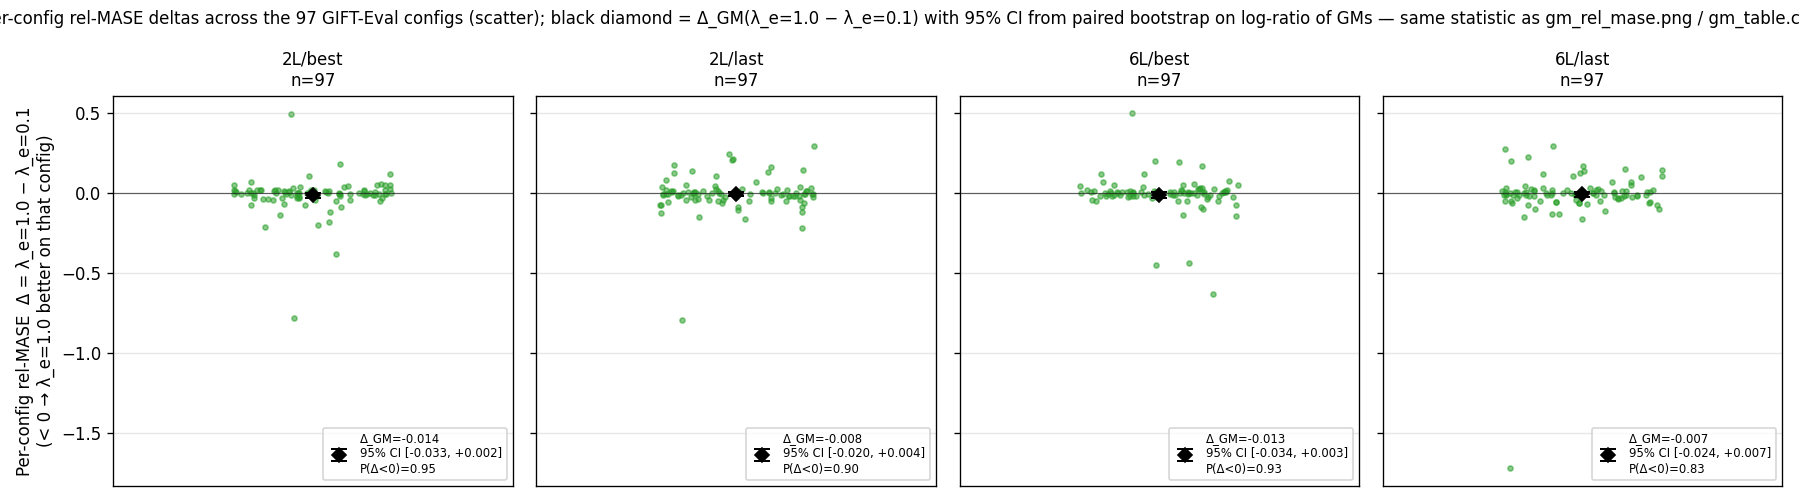
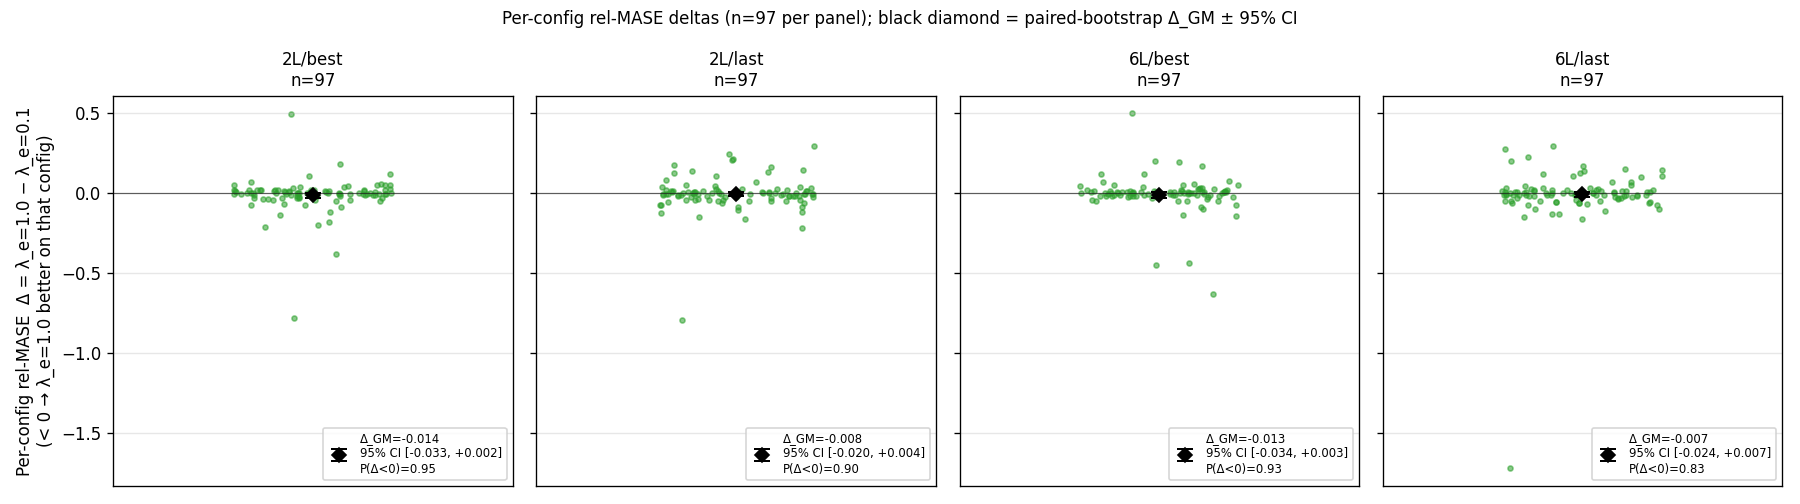
exp(#359): address PR #361 iter-3 review — drop orphan plots, trim clipped suptitle
P1: delete plots/loss_curve.png and plots/uniformity.png (orphans — no ![] reference
in the markdown). Remove plot_loss_curves / plot_uniformity from build_report.py and
drop the now-unused --ema-csv / --cpc-csv args. h_t info already lives in
sigreg_e_inspection.png; loss is operational context.

P2: trim per_config_delta.png suptitle to one short line ("Per-config rel-MASE deltas
(n=97 per panel); black diamond = paired-bootstrap Δ_GM ± 95% CI") — full statistic
definition is already in the markdown caption. The previous one-liner overflowed the
15-inch figsize at fontsize=10 and was clipped at both ends.

Changed region(s): [[0.0, 0.0, 1.0, 0.0595]]

diff --git a/reports/2026-06-22_lejepa_sigreg_emb10/scripts/build_report.py b/reports/2026-06-22_lejepa_sigreg_emb10/scripts/build_report.py
@@ -210,24 +210,6 @@ def write_gm_table(
     return rows
 
 
-def plot_loss_curves(
-    sig10_csv: Path, sig01_csv: Path | None, ema_csv: Path | None, cpc_csv: Path | None, out: Path,
-):
-    fig, ax = plt.subplots(figsize=(8, 4.5))
-    s = pd.read_csv(sig10_csv)
-    ax.plot(s["step"], s["loss"].rolling(50, min_periods=1).mean(),
-            label=ARM_LABEL["sigreg10_enc3"], color=ARM_COLOR["sigreg10_enc3"], lw=1.6)
-    for arm, csv_path in (("sigreg01_enc3", sig01_csv), ("ema_enc3", ema_csv), ("cpc_enc3", cpc_csv)):
-        if csv_path and csv_path.exists():
-            d = pd.read_csv(csv_path)
-            ax.plot(d["step"], d["loss"].rolling(50, min_periods=1).mean(),
-                    label=ARM_LABEL[arm], color=ARM_COLOR[arm], lw=1.2)
-    ax.set_xlabel("step"); ax.set_ylabel("loss (50-step rolling mean)")
-    ax.set_title("Training loss")
-    ax.legend(fontsize=8); ax.grid(alpha=0.3)
-    fig.tight_layout(); fig.savefig(out, dpi=120); plt.close(fig)
-
-
 def plot_sigreg_inspection(sig10_csv: Path, sig01_csv: Path | None, out: Path):
     """Compare sigreg_e / sigreg_h / u_batch_e / u_temporal_e between the two
     λ_e weights. All four panels use log y-axis so the bottom row's tiny values
@@ -256,39 +238,6 @@ def plot_sigreg_inspection(sig10_csv: Path, sig01_csv: Path | None, out: Path):
         ax.set_xlabel("step"); ax.set_title(title)
         ax.legend(fontsize=8); ax.grid(alpha=0.3, which="both")
     fig.suptitle("Embedding-side SIGReg trajectory: λ_e=1.0 vs λ_e=0.1 — log y-axis on all panels")
-    fig.tight_layout(); fig.savefig(out, dpi=120); plt.close(fig)
-
-
-def plot_uniformity(
-    sig10_csv: Path, sig01_csv: Path | None, ema_csv: Path | None, cpc_csv: Path | None, out: Path,
-):
-    """h_t uniformity only — e_t curves are crushed at the [0, 1] baseline and
-    are already shown clearly on the log y-axis of sigreg_e_inspection.png."""
-    s10 = pd.read_csv(sig10_csv)
-    fig, axes = plt.subplots(1, 2, figsize=(13, 4.5), sharey=True)
-    for ax, kind in zip(axes, ("batch", "temporal")):
-        ax.plot(s10["step"], s10[f"u_{kind}"].rolling(50, min_periods=1).mean(),
-                label=f"u_{kind} (h_t) — {ARM_LABEL['sigreg10_enc3']}",
-                color=ARM_COLOR["sigreg10_enc3"], lw=1.6)
-        if sig01_csv and sig01_csv.exists():
-            s01 = pd.read_csv(sig01_csv)
-            ax.plot(s01["step"], s01[f"u_{kind}"].rolling(50, min_periods=1).mean(),
-                    label=f"u_{kind} (h_t) — {ARM_LABEL['sigreg01_enc3']}",
-                    color=ARM_COLOR["sigreg01_enc3"], lw=1.2)
-        for arm, csv_path in (("ema_enc3", ema_csv), ("cpc_enc3", cpc_csv)):
-            if csv_path and csv_path.exists():
-                d = pd.read_csv(csv_path)
-                if f"u_{kind}" in d.columns:
-                    ax.plot(d["step"], d[f"u_{kind}"].rolling(50, min_periods=1).mean(),
-                            label=f"u_{kind} (h_t) — {ARM_LABEL[arm]}",
-                            color=ARM_COLOR[arm], lw=0.9)
-        ax.set_xlabel("step")
-        ax.set_ylabel("effective dimensionality (h_t)")
-        ax.set_title(f"u_{kind} ({'cross-batch' if kind=='batch' else 'cross-time'})")
-        ax.set_ylim(0, 1)
-        ax.legend(fontsize=7); ax.grid(alpha=0.3)
-    fig.suptitle("Encoder-output uniformity h_t (cos²-based dim_usage; clipped to [1/K, 1]). "
-                 "e_t curves are on sigreg_e_inspection.png.")
     fig.tight_layout(); fig.savefig(out, dpi=120); plt.close(fig)
 
 
@@ -422,9 +371,8 @@ def plot_per_config_delta(
         ax.legend(loc="lower right", fontsize=7)
     axes[0].set_ylabel("Per-config rel-MASE  Δ = λ_e=1.0 − λ_e=0.1\n(< 0 → λ_e=1.0 better on that config)")
     fig.suptitle(
-        "Per-config rel-MASE deltas across the 97 GIFT-Eval configs (scatter); "
-        "black diamond = Δ_GM(λ_e=1.0 − λ_e=0.1) with 95% CI from paired bootstrap on "
-        "log-ratio of GMs — same statistic as gm_rel_mase.png / gm_table.csv",
+        "Per-config rel-MASE deltas (n=97 per panel); "
+        "black diamond = paired-bootstrap Δ_GM ± 95% CI",
         fontsize=10,
     )
     fig.tight_layout(); fig.savefig(out, dpi=120); plt.close(fig)
@@ -515,10 +463,6 @@ if __name__ == "__main__":
     p.add_argument("--sig01-results", type=Path,
         default=Path("/tmp/contrastive-forecasting-359/reports/2026-06-20_lejepa_sigreg/results"))
     p.add_argument("--sig01-tag", default="allt08_xftrip_nobn_enc3_emateach_sigreg_qk_aon_b512_cpc")
-    p.add_argument("--ema-csv", type=Path,
-        default=Path("/home/jupyter/workspaces/contrastive-forecasting/experiments/2026-06-19_ema_target_encoder/runs/bb_allt08_xftrip_nobn_enc3_emateach_qk_aon_b1024_cpc_losses.csv"))
-    p.add_argument("--cpc-csv", type=Path,
-        default=Path("/home/jupyter/workspaces/contrastive-forecasting/experiments/2026-06-13_cpc_infonce_aux/runs/bb_allt08_xftrip_nobn_enc3_sgpos_qk_aon_b1024_cpc_losses.csv"))
     args = p.parse_args()
 
     report = args.report_dir
@@ -537,9 +481,7 @@ if __name__ == "__main__":
         out_csv=results / "bootstrap_ci.csv",
     )
     rows = write_gm_table(results, results / "gm_table.csv", args.sig10_tag, ci_rows=ci_rows)
-    plot_loss_curves(sig10_csv, args.sig01_csv, args.ema_csv, args.cpc_csv, plots / "loss_curve.png")
     plot_sigreg_inspection(sig10_csv, args.sig01_csv, plots / "sigreg_e_inspection.png")
-    plot_uniformity(sig10_csv, args.sig01_csv, args.ema_csv, args.cpc_csv, plots / "uniformity.png")
     plot_gm_bars(rows, ci_rows, plots / "gm_rel_mase.png")
     plot_per_config_delta(
         sig10_results=results, sig01_results=args.sig01_results,
